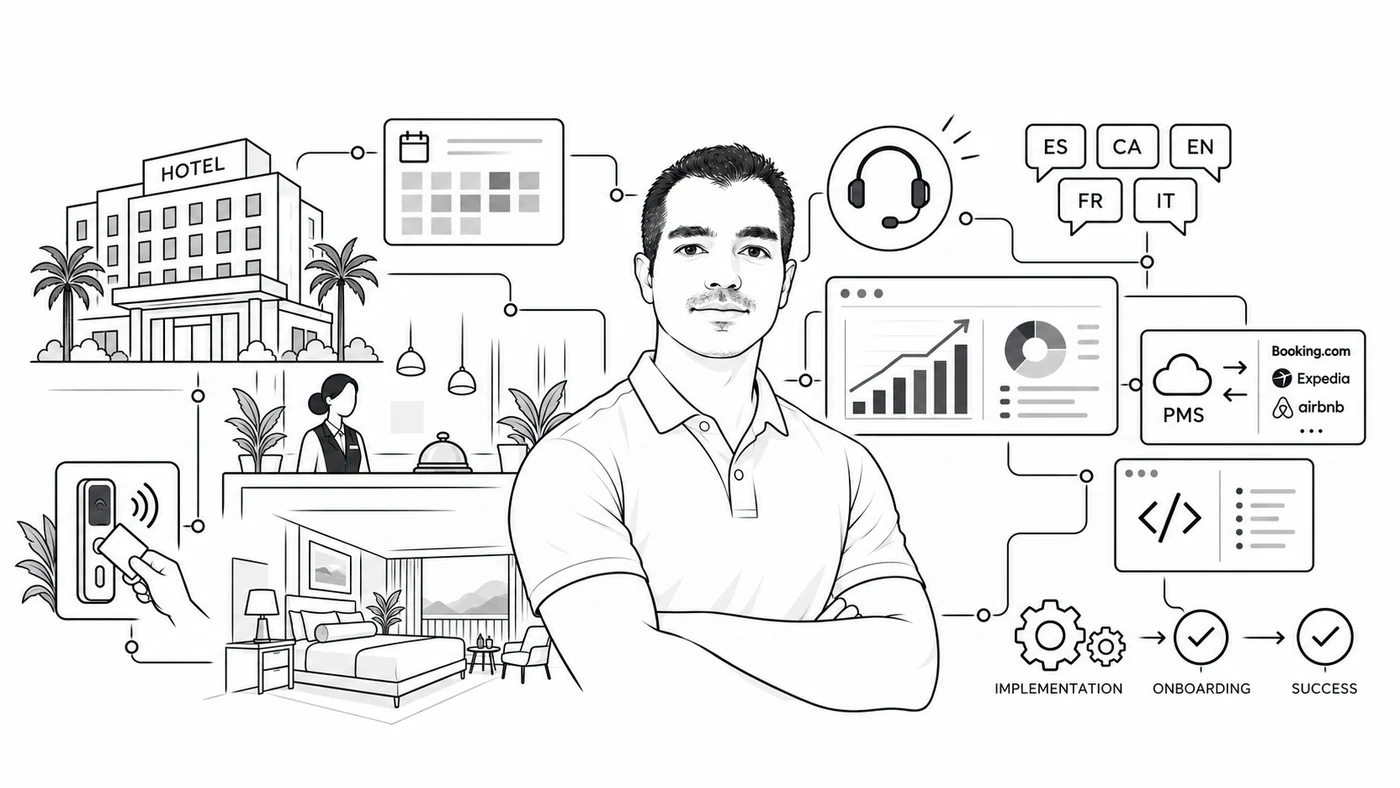
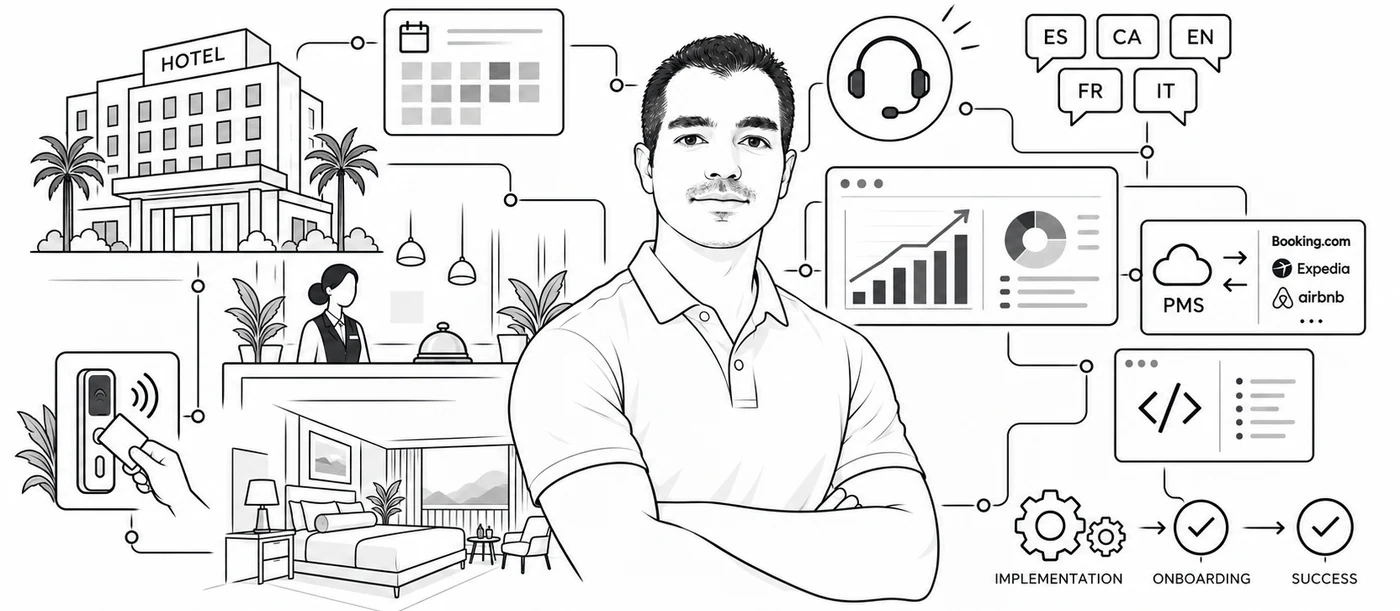
fix(hero): recortar el aire de la ilustracion y subir la imagen al header
Dos cosas:

Imagen pegada al header. Estaba a 28px de hueco, y no era el layout: era la
propia ilustracion, que traia 131px de aire en blanco por arriba sobre 941 de
alto. Medido fila a fila sobre el PNG original, no con el trim de sharp, que
daba offsets negativos y no era fiable. Al tamaño de movil esos 131px son casi
30px de hueco visible.
- Se recortan los dos recortes a su caja de contenido, dejando 8px de margen:
  el apaisado pasa de 1400x788 a 1400x611 y el vertical de 1000x1250 a 1000x1102.
  Se actualizan el aspect-ratio de .hero-media y los atributos width/height del
  img, que es de donde sale la proporcion en escritorio.
- Ademas la seccion pasa de items-center a items-start en movil (lg:items-center
  en escritorio). Con centrado vertical, en un movil alto el bloque flotaba en
  medio y la imagen quedaba lejos del header por mucho que se recortara la
  imagen.

Titular a 28px. El recorte anterior a 24px no se habia pedido y ya estaba bien;
vuelve a clamp(1.75rem, 3.2vw, 2.5rem). El recorte del aire deja sitio de sobra:
la imagen baja de 188 a 146px de alto en movil, 42px que compensan de largo los
8px que devuelve el titular.

Estimacion en un movil de 375px: unos 586px de alto, dentro de los 667 del
iPhone SE.

astro check 0/0/0, build exit 0, detector limpio. Comprobado sobre el CSS
construido, contando llaves, que la alineacion de movil es global y el centrado
de escritorio cae dentro de @media (min-width: 1024px).

diff --git a/src/components/sections/Hero.tsx b/src/components/sections/Hero.tsx
@@ -24,7 +24,7 @@ const Hero = ({ content: t }: HeroProps) => {
     // queda bajo el header: 4rem de barra (h-16) mas 1px de su border-b. Asi el
     // texto y la imagen reparten el aire arriba y abajo en vez de colgar de la
     // linea del header, y el conjunto no se sale por el borde inferior.
-    <section id="home" className="flex min-h-screen items-center pt-[65px] pb-4 sm:pb-28">
+    <section id="home" className="flex min-h-screen items-start pt-[65px] pb-4 sm:pb-28 lg:items-center">
       <div className="shell grid gap-3 lg:grid-cols-12 lg:items-center lg:gap-16">
         <div className="text-center lg:col-span-6 lg:text-left">
           <h1 className="text-display font-light text-balance text-black dark:text-white">
@@ -86,7 +86,7 @@ const Hero = ({ content: t }: HeroProps) => {
             src="/images/hero-portrait.webp"
             alt={t.imageAlt}
             width="1000"
-            height="1250"
+            height="1102"
             loading="eager"
             decoding="async"
             className="hero-media"

diff --git a/.impeccable/surfaces/src-pages-index-astro.md b/.impeccable/surfaces/src-pages-index-astro.md
@@ -23,7 +23,7 @@ OWN-WORLD: Fondo `#ffffff` con superficies `#f8fafc` y `#f1f5f9`; texto de `#0f1
 
 STORY: El visitante entiende en cinco segundos que el perfil combina operaciones hoteleras y tecnología, comprueba que hay producto real detrás, y escribe.
 
-FIRST VIEWPORT: **Dos columnas** desde `lg` (6/6), apiladas en móvil, y el hero ocupa el alto de la ventana con el contenido centrado en vertical bajo el header (`min-h-screen` + `items-center` + `pt-[65px]`). En móvil la imagen va primero (por `order`), el bloque se centra, el texto sigue a la izquierda desde `lg` y los espacios se aprietan y el párrafo baja a `base` (16px) para que quepa el hero entero: gap de rejilla 0,75rem, márgenes de párrafo y fila 0,75rem y 1rem, `pb` de 1rem y la entradilla con interlineado 1,5 en vez del 1,65 de la escala. La imagen ocupa el ancho completo en móvil, que es lo que la deja ancha y baja. En escritorio el párrafo vuelve a `lead` (18px) y los espacios a sus valores de siempre. A la izquierda: el titular en `display` (44–68px, y 24–36px por debajo de 1024px, token `--text-display`) —«Operaciones hoteleras + tecnología»—, el párrafo de presentación en `lead`, limitado por `.measure`, en un solo bloque sin cortes, y, centrados juntos en una misma fila, la acción principal —«Ver experiencia» en versalitas, con `.cta-primary` sólido en negro, que enlaza a `#experience`— y los tres accesos de contacto en iconos (LinkedIn, WhatsApp, correo), de 24px sobre objetivos táctiles de 48px y sin rótulo. A la derecha, la ilustración del perfil, con dos recortes servidos por `<picture>`: el apaisado (`/images/hero-landscape.webp`, 1400×788) por debajo de 1024px, donde ocupa el ancho completo y por eso queda ancha y baja, y el vertical (`/images/hero-portrait.webp`, 1000×1250) desde 1024px. Va en `loading="eager"` y con texto alternativo por idioma, que aportó el usuario; **su licencia está sin verificar** (ver la nota de procedencia en DESIGN.md), y cuyo tamaño está acotado por alto y por ancho para que no desborde; sus topes pequeños solo aplican por debajo de 1024px, y en escritorio vuelven a los anteriores. De la primera maqueta solo queda la rejilla de dos columnas: el antetítulo, los chips del enfoque, la experiencia práctica, la línea de disponibilidad y el panel se han ido retirando a petición del usuario, y de sus dos botones se conserva uno, el que lleva a la experiencia.
+FIRST VIEWPORT: **Dos columnas** desde `lg` (6/6), apiladas en móvil, y el hero ocupa el alto de la ventana con el contenido centrado en vertical bajo el header (`min-h-screen` + `items-center` + `pt-[65px]`). En móvil la imagen va primera (por `order`) y el bloque se alinea arriba, pegando a la imagen al borde del header, el texto sigue a la izquierda desde `lg` y los espacios se aprietan y el párrafo baja a `base` (16px) para que quepa el hero entero: gap de rejilla 0,75rem, márgenes de párrafo y fila 0,75rem y 1rem, `pb` de 1rem y la entradilla con interlineado 1,5 en vez del 1,65 de la escala. La imagen ocupa el ancho completo en móvil, que es lo que la deja ancha y baja. En escritorio el párrafo vuelve a `lead` (18px) y los espacios a sus valores de siempre. A la izquierda: el titular en `display` (44–68px, y 28–40px por debajo de 1024px, token `--text-display`) —«Operaciones hoteleras + tecnología»—, el párrafo de presentación en `lead`, limitado por `.measure`, en un solo bloque sin cortes, y, centrados juntos en una misma fila, la acción principal —«Ver experiencia» en versalitas, con `.cta-primary` sólido en negro, que enlaza a `#experience`— y los tres accesos de contacto en iconos (LinkedIn, WhatsApp, correo), de 24px sobre objetivos táctiles de 48px y sin rótulo. A la derecha, la ilustración del perfil, con dos recortes servidos por `<picture>`: el apaisado (`/images/hero-landscape.webp`, 1400×611, ya recortado el aire de origen) por debajo de 1024px, donde ocupa el ancho completo y por eso queda ancha y baja, y el vertical (`/images/hero-portrait.webp`, 1000×1102, tambien recortado) desde 1024px. Va en `loading="eager"` y con texto alternativo por idioma, que aportó el usuario; **su licencia está sin verificar** (ver la nota de procedencia en DESIGN.md), y cuyo tamaño está acotado por alto y por ancho para que no desborde; sus topes pequeños solo aplican por debajo de 1024px, y en escritorio vuelven a los anteriores. De la primera maqueta solo queda la rejilla de dos columnas: el antetítulo, los chips del enfoque, la experiencia práctica, la línea de disponibilidad y el panel se han ido retirando a petición del usuario, y de sus dos botones se conserva uno, el que lleva a la experiencia.
 FORM: Pieza técnica clara con acento único. Roll de dirección `98d9d5d1` (modo persuade, index 3).
 
 FINISH: unreviewed and undocumented is unfinished; this build ends with the finish review, the verdict, DESIGN.md, and every shipping raster carrying its provenance.

diff --git a/DESIGN.md b/DESIGN.md
@@ -146,7 +146,7 @@ La escala es **fluida y única** para todo el sitio: diez pasos declarados como 
 
 | Token | Tamaño | Para qué |
 |---|---|---|
-| `display` | `clamp(2.75rem, 4.6vw, 4.25rem)` — 44 a 68px; en pantallas de menos de 1024px baja a `clamp(1.5rem, 2.8vw, 2.25rem)` — 24 a 36px | El titular del hero |
+| `display` | `clamp(2.75rem, 4.6vw, 4.25rem)` — 44 a 68px; en pantallas de menos de 1024px baja a `clamp(1.75rem, 3.2vw, 2.5rem)` — 28 a 40px | El titular del hero |
 | `headline` | `clamp(2.4rem, 3.6vw, 3.4rem)` — 38 a 54px | Titulares de sección |
 | `title-lg` | 1.5rem — 24px | Títulos de caso, empresas, grupos |
 | `subhead` | 1.25rem — 20px | El posicionamiento y los subtítulos |
@@ -229,7 +229,7 @@ Resueltas en esta pasada: el fade-up idéntico en cada sección, los `border-lef
 
 **Desviaciones aceptadas a petición del usuario.** El mundo se había comprometido con la columna única, las esquinas rectas y el acento como única señal. El hero volvió a introducir lo contrario tras una referencia visual aportada por el usuario, que pidió reproducirla «exactamente igual». Lo único que queda en pie de aquella maqueta es la rejilla de dos columnas desde `lg`, hoy 6/6; el resto se ha ido retirando después a petición del usuario: el antetítulo sobre el titular, los chips del enfoque con su rótulo, el bloque de experiencia práctica, los dos botones («Ver experiencia» y el de LinkedIn), la línea de disponibilidad y, por último, el panel lateral con sus dibujos y sus lemas, sustituido por la ilustración del perfil. El titular vuelve a ser lo primero de la columna, así que la desviación del craft floor que suponía el antetítulo ya no existe. El acento sigue siendo el azul del mundo y no el ámbar de la maqueta, por decisión previa del usuario; cambiarlo es una línea en el token `--accent`.
 
-**Procedencia de la ilustración del hero.** Hay dos recortes de la misma escena, y `<picture>` sirve uno u otro según el ancho: `public/images/hero-landscape.webp` (1400×788, WebP q88, 87 kB, de un PNG de 1672×941) por debajo de 1024px, y `public/images/hero-portrait.webp` (1000×1250, WebP q88, 109 kB, de un PNG de 1122×1402) desde 1024px. El emparejamiento con el tamaño de cada uno vive en la clase `.hero-media` de `Layout.astro`. Ambos PNG los aportó el usuario como archivo adjunto. **Su origen y su licencia no están verificados**: no consta autoría, ni cesión de derechos, ni si viene de un banco de imágenes. Hay que acreditarlo antes de dar por buena la publicación, porque el resto de imágenes del sitio son propias o de clientes. Si no se puede acreditar, hay que sustituirla.
+**Procedencia de la ilustración del hero.** Hay dos recortes de la misma escena, y `<picture>` sirve uno u otro según el ancho: `public/images/hero-landscape.webp` (1400×611, WebP q88, 88 kB, de un PNG de 1672×941) por debajo de 1024px, y `public/images/hero-portrait.webp` (1000×1102, WebP q88, 109 kB, de un PNG de 1122×1402) desde 1024px. A los dos se les ha recortado el aire en blanco que traian de origen: 131px arriba en el apaisado, que a tamaño de movil se veian como un hueco de casi 30px entre el header y el dibujo, y 113px en el vertical. Se deja un margen de 8px para que el trazo no toque el borde. El emparejamiento con el tamaño de cada uno vive en la clase `.hero-media` de `Layout.astro`. Ambos PNG los aportó el usuario como archivo adjunto. **Su origen y su licencia no están verificados**: no consta autoría, ni cesión de derechos, ni si viene de un banco de imágenes. Hay que acreditarlo antes de dar por buena la publicación, porque el resto de imágenes del sitio son propias o de clientes. Si no se puede acreditar, hay que sustituirla.
 
 Sobre su fondo: no necesita ningún recorte. Medido sobre los píxeles del original, el fondo ya es blanco puro y neutro (254-255 en los tres canales, sin perfil ICC incrustado), así que integra sin costura sobre el `#ffffff` del tema claro. Conviene no repetir aquí la impresión de que tenía un tinte crema: era un error de lectura de una versión anterior, y el dato medido lo desmiente.
 
